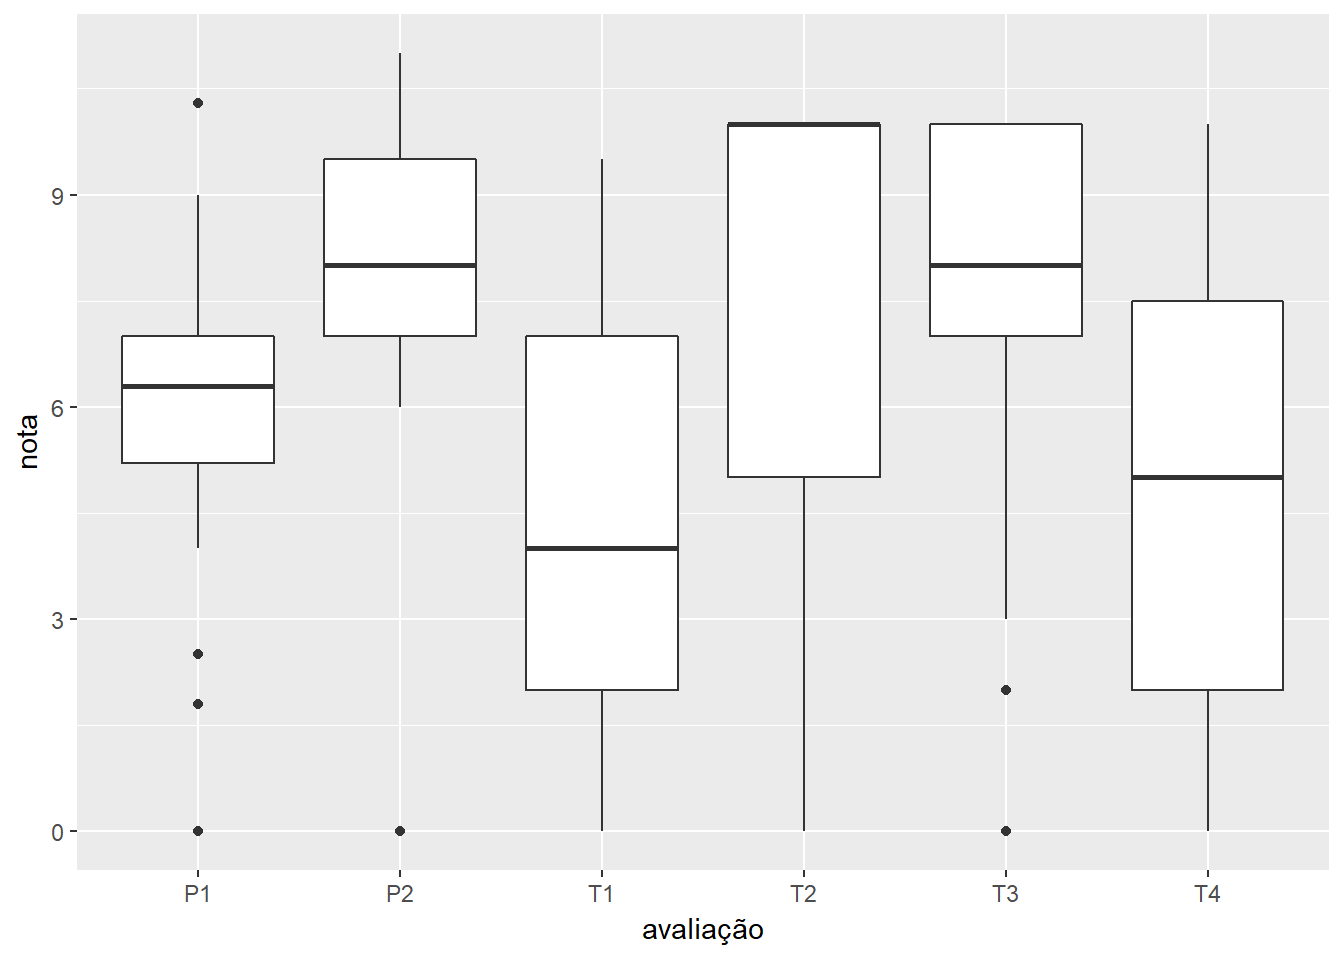
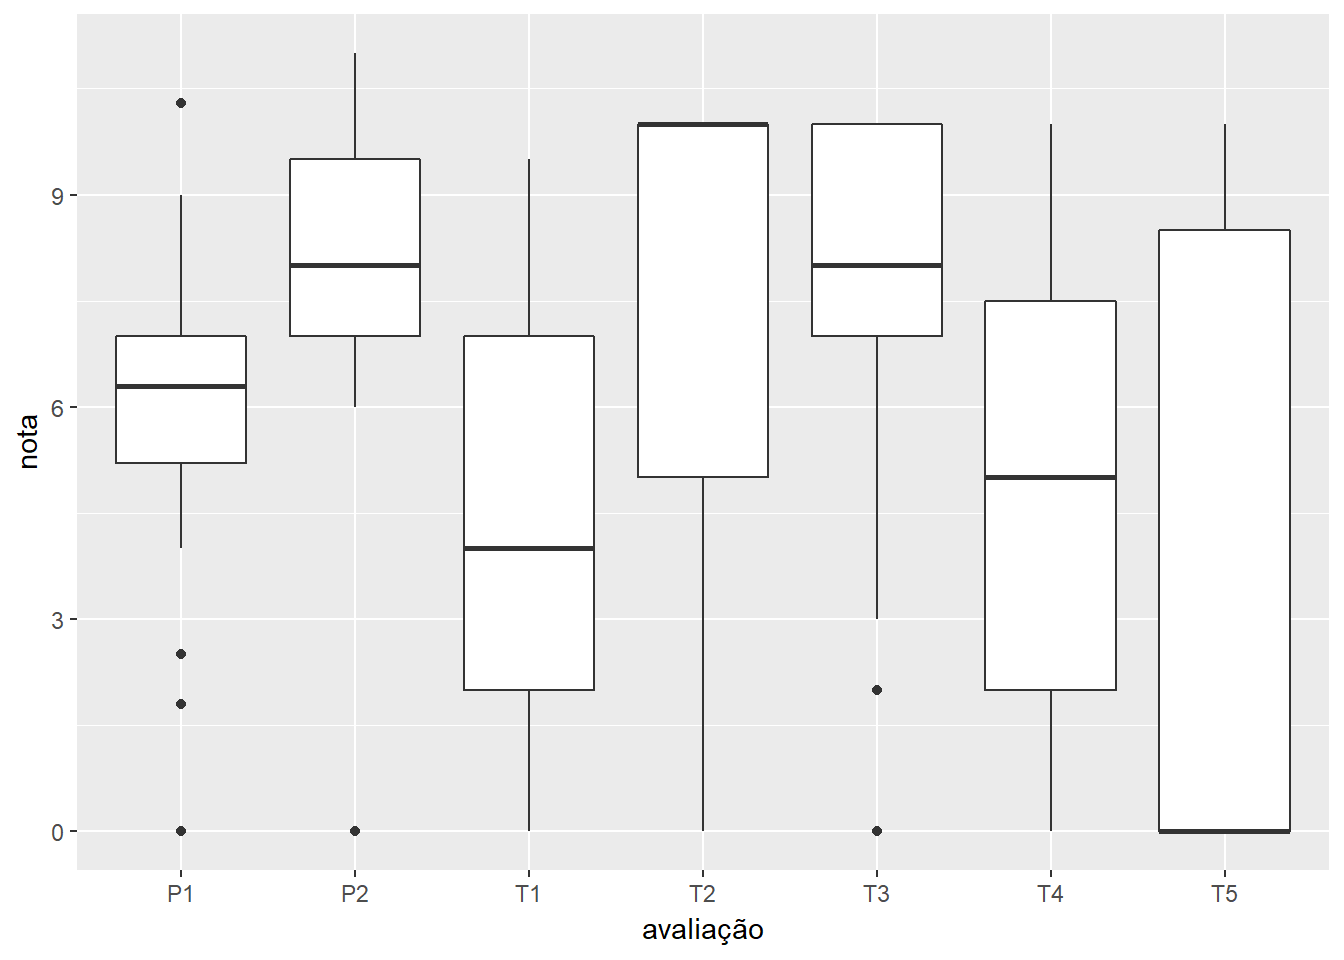
Probabilidade C: notas T5.

diff --git a/content/classes/2018_1_prob_c/grades.html b/content/classes/2018_1_prob_c/grades.html
@@ -21,7 +21,7 @@ subtitle: "1o semestre de 2018"
 <li><p>Caso o seu número RA esteja marcado com um (*), isto indica que existe evidência que você desrespeitou o código de ética desta disciplina. Tome cuidado! Caso o seu número RA esteja marcado com um (**), está provado que você desrespeitou o código de ética desta disciplina e você está reprovado.</p></li>
 </ul>
 <div id="htmlwidget-1" style="width:100%;height:auto;" class="datatables html-widget"></div>
-<script type="application/json" data-for="htmlwidget-1">{"x":{"filter":"none","data":[["1922","1930","1965","1990","2023","2139","4440","4845","4848","4849","4852","4854","4870","4873","4877","4879","5944","5947","6800","6851","7835*","7837","7839","7843","7846*","7847","7849","7859","7860","7867","7869","7870","7871","7872","8072","8542","9081"],[4,2,0,4,5,2,1,0,5,7,7,9.5,4,7,7,7,2,7,4,7,0,5.5,4,4,0,9,4,2,9.5,5,0,4,2,1,5,5,7],[9,10,0,10,5,0,10,5,10,10,10,10,2,10,10,10,10,10,10,10,10,10,10,10,10,9,10,0,0,10,7.5,9,10,4,0,0,10],[6.3,6.3,5,6.5,2.5,6.5,4,7.5,7.3,5,7.5,7.5,9,7,7,10.3,7.5,7.3,0,6.8,4.8,6,7.5,5.5,5,4.5,6.5,1.8,6.5,6.3,6.8,6.3,6,5.2,5.3,6,5.5],[8,10,2,9,10,10,8,10,9,7,3,10,4,9.5,8,10,8,2,0,10,9,10,4,9,8,0,0,0,7,8,10,8,8,10,10,10,8],[9,9.5,8,7,8,6,9.5,7.5,9.5,9,8,10.5,7.5,8.5,10,10.3,8.5,11,0,10,7,7,7.3,6,7.5,8,10,0,10.5,10,7.3,0,6.5,8.3,6.5,9.5,9],[2,7.5,5,5,2.5,7.5,4,7.5,8,5,2.5,9,4,10,0,7.5,5,0,0,6,5,5,1,4,1,7.5,0,0,10,7.5,8,6,1,7.5,5,7.5,0]],"container":"<table class=\"display\">\n  <thead>\n    <tr>\n      <th>RA<\/th>\n      <th>T1<\/th>\n      <th>T2<\/th>\n      <th>P1<\/th>\n      <th>T3<\/th>\n      <th>P2<\/th>\n      <th>T4<\/th>\n    <\/tr>\n  <\/thead>\n<\/table>","options":{"dom":"ftip","columnDefs":[{"className":"dt-right","targets":[1,2,3,4,5,6]}],"order":[],"autoWidth":false,"orderClasses":false}},"evals":[],"jsHooks":[]}</script>
+<script type="application/json" data-for="htmlwidget-1">{"x":{"filter":"none","data":[["1922","1930","1965","1990","2023","2139","4440","4845","4848","4849","4852","4854","4870","4873","4877","4879","5944","5947","6800","6851","7835*","7837","7839","7843","7846*","7847","7849","7859","7860","7867","7869","7870","7871","7872","8072","8542","9081"],[4,2,0,4,5,2,1,0,5,7,7,9.5,4,7,7,7,2,7,4,7,0,5.5,4,4,0,9,4,2,9.5,5,0,4,2,1,5,5,7],[9,10,0,10,5,0,10,5,10,10,10,10,2,10,10,10,10,10,10,10,10,10,10,10,10,9,10,0,0,10,7.5,9,10,4,0,0,10],[6.3,6.3,5,6.5,2.5,6.5,4,7.5,7.3,5,7.5,7.5,9,7,7,10.3,7.5,7.3,0,6.8,4.8,6,7.5,5.5,5,4.5,6.5,1.8,6.5,6.3,6.8,6.3,6,5.2,5.3,6,5.5],[8,10,2,9,10,10,8,10,9,7,3,10,4,9.5,8,10,8,2,0,10,9,10,4,9,8,0,0,0,7,8,10,8,8,10,10,10,8],[9,9.5,8,7,8,6,9.5,7.5,9.5,9,8,10.5,7.5,8.5,10,10.3,8.5,11,0,10,7,7,7.3,6,7.5,8,10,0,10.5,10,7.3,0,6.5,8.3,6.5,9.5,9],[2,7.5,5,5,2.5,7.5,4,7.5,8,5,2.5,9,4,10,0,7.5,5,0,0,6,5,5,1,4,1,7.5,0,0,10,7.5,8,6,1,7.5,5,7.5,0],[7.5,0,0,0,0,0,0,0,9.5,9.5,8.5,10,0,0,0,0,5,8,0,10,0,5,8,0,0,0,0,0,10,0,10,10,7.5,9.5,0,0,9.5]],"container":"<table class=\"display\">\n  <thead>\n    <tr>\n      <th>RA<\/th>\n      <th>T1<\/th>\n      <th>T2<\/th>\n      <th>P1<\/th>\n      <th>T3<\/th>\n      <th>P2<\/th>\n      <th>T4<\/th>\n      <th>T5<\/th>\n    <\/tr>\n  <\/thead>\n<\/table>","options":{"dom":"ftip","columnDefs":[{"className":"dt-right","targets":[1,2,3,4,5,6,7]}],"order":[],"autoWidth":false,"orderClasses":false}},"evals":[],"jsHooks":[]}</script>
 <div id="graficos" class="section level3">
 <h3>Gráficos</h3>
 <p><img src="/classes/2018_1_prob_c/grades_files/figure-html/unnamed-chunk-2-1.png" width="672" /></p>
